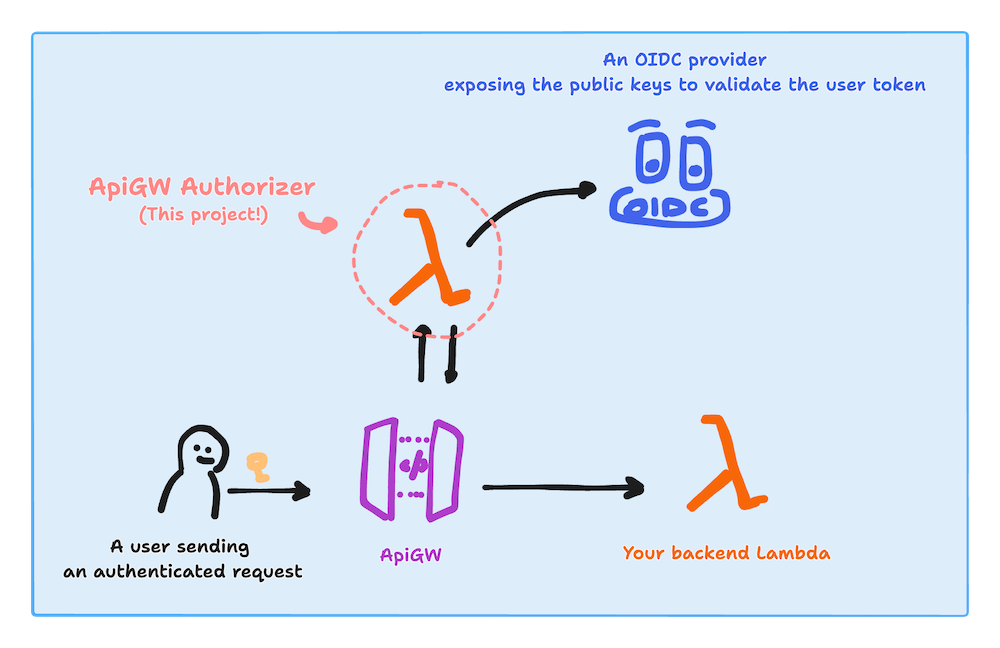
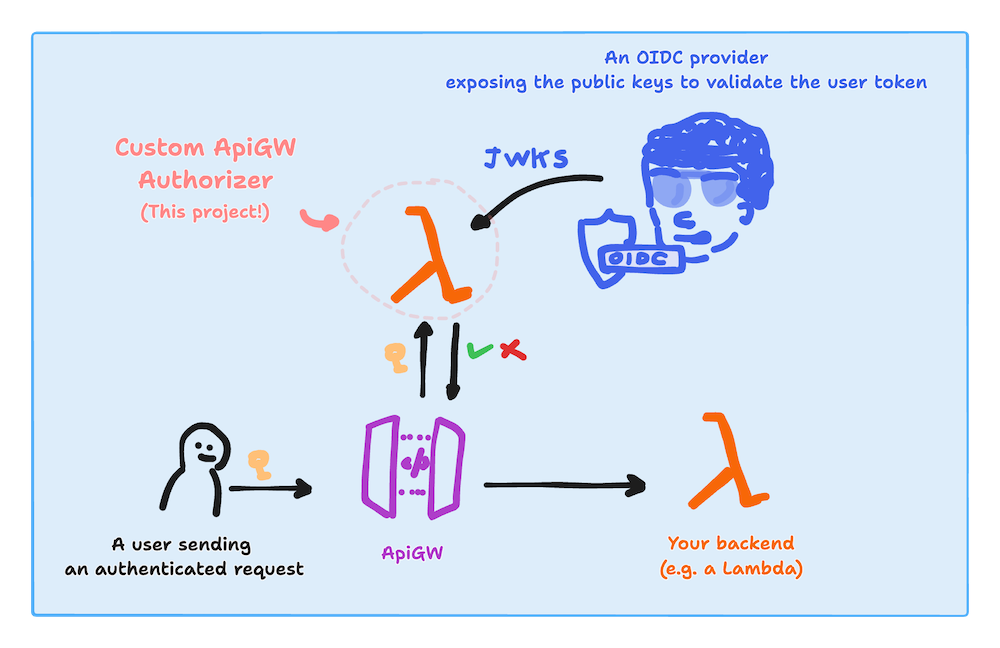
chore(docs): updated lovely diagram and added acknowledgements

diff --git a/README.md b/README.md
@@ -16,6 +16,7 @@ This project provides a easy-to-install AWS Lambda function that can be used as 
 ![A diagram illustrating how this project can be integrated. A user sends an authenticated request to API Gateway. API Gateway is configure to use a custom lambda as an authorizer (THIS PROJECT!). The lambda talks with your OIDC provider to get the public key to validate the user token and responds to API Gateway to Allow or Deny the request.](/docs/lovely-diagram.png)
 
 > A diagram illustrating how this project can be integrated.
+>
 > A user sends an authenticated request to API Gateway. API Gateway is configure to use a custom lambda as an authorizer (THIS PROJECT!). The lambda talks with your OIDC provider to get the public key to validate the user token and responds to API Gateway to Allow or Deny the request.
 
 API Gateway currently exists in 2 flavours: **HTTP APIs** and **REST APIs**. As of today, only HTTP APIs implement a [built-in JWT authorizer](https://docs.aws.amazon.com/apigateway/latest/developerguide/http-api-jwt-authorizer.html) that supports OIDC-issued tokens.
@@ -36,9 +37,9 @@ This custom Lambda Authorizer is designed to be **easy to install and configure*
 ## ⚠ WIP
 
 - TODO: document installation process
+- TODO: document configuration options
 - TODO: document supported algorithms
 - TODO: document validation flow
-- TODO: document configuration options
 - TODO: document what gets added into the context and how it can be used for app-level authentication
 - TODO: benchmarks
 - TODO: release from GitHub actions
@@ -54,3 +55,12 @@ You can contribute just by submitting bugs or suggesting improvements by
 ## License
 
 Licensed under [MIT License](LICENSE). © Luciano Mammino.
+
+
+## Acknowledgements
+
+Big thanks to:
+
+- [@Lodewyk11](https://github.com/Lodewyk11) & [@gsingh1](https://github.com/gsingh1) for writing the original Python implementation that inspired this work
+- [@allevo](https://github.com/allevo) for tons of great Rust suggestions
+- [@alexdebrie](https://github.com/alexdebrie) for his amazing [article on custom ApiGateway Authorizers](https://www.alexdebrie.com/posts/lambda-custom-authorizers/).
